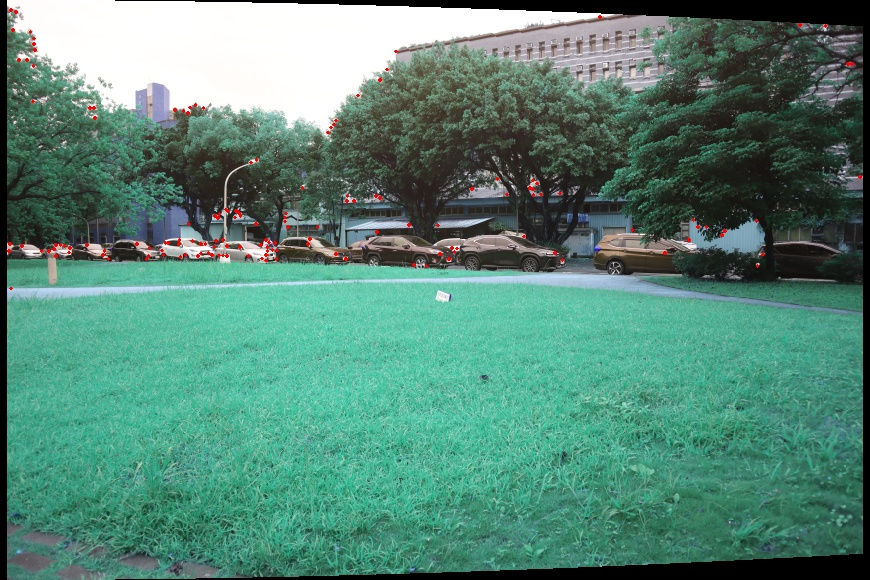
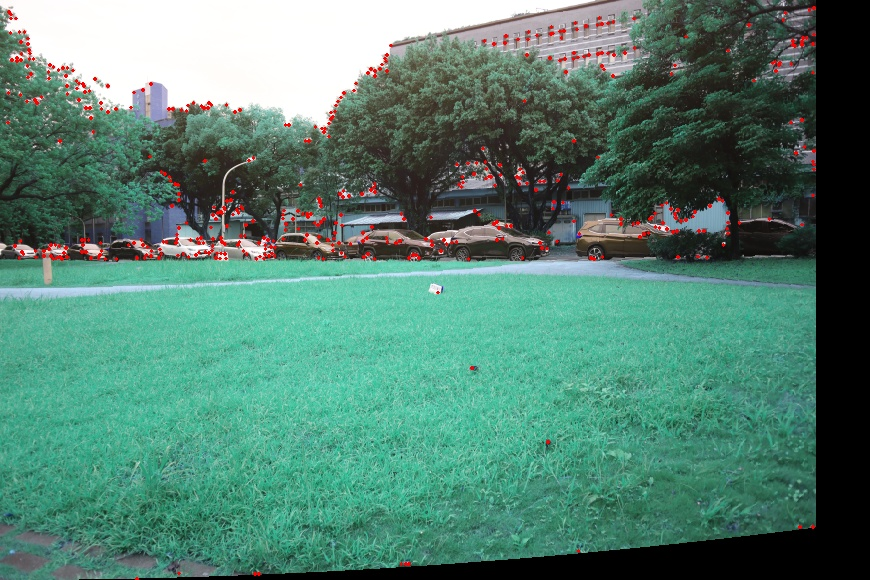
[WIP] Fixing RANSAC

diff --git a/util.py b/util.py
@@ -319,26 +319,49 @@ class Matching():
             n_subSample,
             threshold
     ):
+        '''Implementation of RANSAC
+
+        Args:
+            coor_pair (list): The coordinates of the matching pairs between two images. `coor_pair[0]` represents the points in the first image, while `coor_pair[0]` represents that in the second one.
+            n_sample (int): Number of matching pairs. This should be equal to `len(coor_pair[0])` and `len(coor_pair[1])`.
+            n_iter (int): The number of iteration.
+            n_subSample (int): The number of samples to formulate the fitted model.
+            threshold (float): 
+
+        Return:
+            H (np.array): The homography matrix
+        '''
+        coor_1 = np.array(coor_pair[0])
+        coor_2 = np.array(coor_pair[1])
+
         max_in = 0
         best_H = None
-        for iter in range(n_iter):
-            subSampleIdx = random.sample(range(n_sample), n_subSample)
-            H = self.homography(coor_pair[subSampleIdx][0], coor_pair[subSampleIdx][1])
+        for _ in range(n_iter):
+            # Draw `n_subSample` points and fit the model with them.
+            subSampleIdx = random.sample(range(n_sample), n_subSample)  # (n_subSample, 2)
+            H = self.homography(coor_1[subSampleIdx], coor_2[subSampleIdx])
+            print(f'H.shape: {H.shape}')  # (3, 3)
             num_in = 0
 
-            if iter not in subSampleIdx:
-                concate_coor = np.hstack((coor_pair[iter][0], [1]))
-                dst_coor =H @ concate_coor.T
-                if dst_coor[2] <= 1e-5:      ## avoid 0 division
-                    continue
-                dst_coor /= 2
-                if (np.linalg.norm(coor_pair[:2][1] - coor_pair[iter][1]) < threshold):
-                    num_in += 1
-            if max_in < num_in:
+            for idx in range(n_sample):
+                if idx not in subSampleIdx:
+                    concate_coor = np.hstack((coor_1[idx], coor_2[idx]))
+                    print(f'concate_coor.shape: {concate_coor.shape}') # (4, )
+                    dst_coor = H @ concate_coor.T
+                    if dst_coor[2] <= 1e-5:      ## avoid 0 division
+                        continue
+                    # Q: 為什麼要 /= 2?
+                    dst_coor /= 2
+                    # 為什麼是這兩個相減，應該要用到 `dst_coor` 才對吧
+                    if (np.linalg.norm(coor_pair[:2][1] - coor_pair[idx][1]) < threshold):
+                        num_in += 1
+            if max_in <= num_in:
                 max_in = num_in
                 best_H = H
+
         return best_H
 
+    # TODO: Check the formula and shape of H.
     def homography(
             self,
             P,
@@ -347,8 +370,8 @@ class Matching():
         # solve homography matrix
         A = []
         for r in range(len(P)):
-            print(m[r, 0])      ## for debug
-            A.append(-P[r, 0], -P[r, 1], -1, 0, 0, 0, P[r, 0]*m[r,0], P[r,1]*m[r,0], m[r, 0])
+            # print(m[r, 0])      ## for debug
+            A.append([-P[r, 0], -P[r, 1], -1, 0, 0, 0, P[r, 0]*m[r,0], P[r,1]*m[r,0], m[r, 0]])
             A.append([0, 0, 0, -P[r,0], -P[r,1], -1, P[r,0]*m[r,1], P[r,1]*m[r,1], m[r,1]])
         u, s, v = np.linalg.svd(A)
         H = np.reshape(v[8], (3, 3))            

diff --git a/main.py b/main.py
@@ -54,6 +54,12 @@ def main(args):
     coord_pairs = match.feature_match(feat_point_list, descriptor_list)
 
     # image matching:
+    for coord_pair in coord_pairs:
+        n_sample = len(coord_pair[0])
+        n_subSample = n_sample // 10
+        # TODO: Determine threshold.
+        match.RANSAC(coord_pair, n_sample=n_sample, n_iter=1, n_subSample=n_subSample, threshold=5)
+        break
 
     # bundle adjustment:
 
